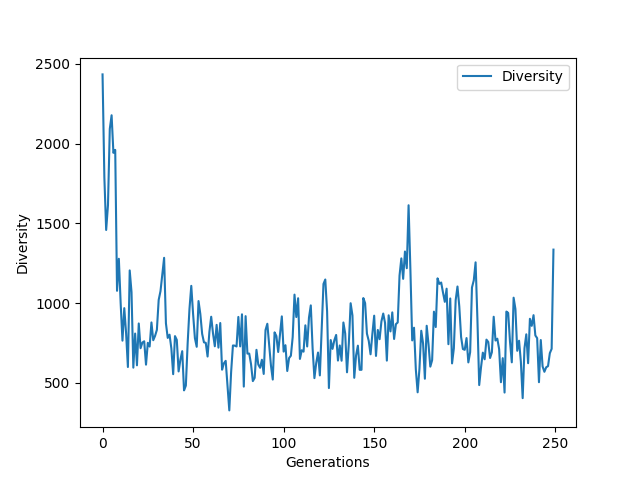
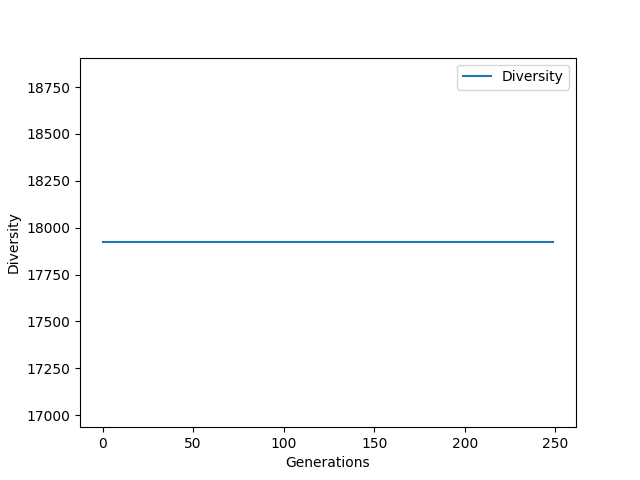
nqueens not done

diff --git a/OCEV/main.py b/OCEV/main.py
@@ -45,6 +45,8 @@ def main():
     objective = fit.radio(initPop, var.pop_size, var.d_size)
   if var.problem == 5:
     objective = fit.pattern(initPop, var.pop_size, var.d_size)
+  if var.problem == 6:
+    objective = fit.nQueens(initPop, var.pop_size, var.d_size)
 
   while var.generations:
     if var.elitism:
@@ -111,6 +113,8 @@ def main():
       objective = fit.radio(newPopu, var.pop_size, var.d_size)
     if var.problem == 5:
       objective = fit.pattern(newPopu, var.pop_size, var.d_size)
+    if var.problem == 6:
+      objective = fit.nQueens(initPop, var.pop_size, var.d_size)
 
 
     bestFit.append(pp.getBest(objective,var.pop_size,var.d_size))
@@ -135,7 +139,7 @@ def main():
   plt.ylabel('Diversity')
   plt.xlabel('Generations')
   plt.savefig("diversity.png")
-  
+
   print(best)
 
 if  __name__ =='__main__':

diff --git a/OCEV/variaveis.py b/OCEV/variaveis.py
@@ -4,7 +4,7 @@ import math as mt
 generations = 250
 k = 2
 pop_size = 100
-d_size = 10
+d_size = 8
 bounds = [-50,50]
 
 elitism = True
@@ -18,25 +18,25 @@ selection = 2
 # problem = 1
 # problem = 2
 # problem = 3
-problem = 4
+# problem = 4
 # problem = 5
-# problem = 6
+problem = 6
 
 # 1 = onePoint; 2 = Uniform; 3 = BLX; 4 = Average; 5 = PLX
-cover = 1
+# cover = 1
 # cover = 2
 # cover = 3
 # cover = 4
-# cover = 5
+cover = 5
 
 # 1 = bitFlip; 2 = randMutation; 3 = deltaMutation; 4 = gaussianMutation; 5 = swapPositions
-mutar = 1
+# mutar = 1
 # mutar = 2
 # mutar = 3
 # mutar = 4
-# mutar = 5
+mutar = 5
 
 
-# cod = 0
+cod = 0
 # cod = 0.0
-cod = False
+# cod = False

diff --git a/OCEV/fitness.py b/OCEV/fitness.py
@@ -100,10 +100,13 @@ def pattern(matriz,pop,d):
 # N - Queens (arrumar)
 def nQueens(matriz,pop,d):
   fitness = 0
+  colision = 0
   for i in range(pop):
     for j in range(d - 1):
-      if abs(matriz[i][j] - (matriz[i][j-1])) != abs(j - (j-1)):
-        fitness = fitness + 1
+      for k in range((j+1),d):
+          if abs(matriz[i][j] - (matriz[i][j-1])) == abs(j - (j-1)):
+            colision += 1
+    fitness = colision/d
     matriz[i].append(fitness)
     fitness = 0
   return matriz
